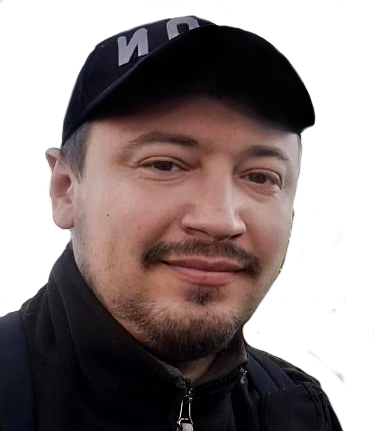
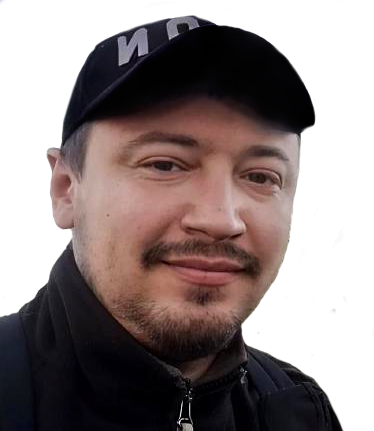
fix: remove overflow-hidden from map container so zoom controls work

diff --git a/src/components/Footer.tsx b/src/components/Footer.tsx
@@ -104,16 +104,14 @@ export function Footer() {
 
           {/* Map - right */}
           <div className="w-full md:w-64 md:shrink-0">
-            <div className="rounded-2xl overflow-hidden shadow-md border border-slate-200 dark:border-slate-700">
-              <div className="w-full h-64 mx-auto">
-                <iframe
-                  src="https://www.openstreetmap.org/export/embed.html?bbox=33.28,47.78,33.42,47.90&layer=mapnik&marker=47.83940783900248%2C33.35141898014392"
-                  className="w-full h-full border-0"
-                  allowFullScreen
-                  loading="lazy"
-                  title="Map - Krivoy Rog"
-                />
-              </div>
+            <div className="shadow-md border border-slate-200 dark:border-slate-700 rounded-2xl">
+              <iframe
+                src="https://www.openstreetmap.org/export/embed.html?bbox=33.28,47.78,33.42,47.90&layer=mapnik&marker=47.83940783900248%2C33.35141898014392"
+                className="w-full h-64 border-0 rounded-2xl"
+                allowFullScreen
+                loading="lazy"
+                title="Map - Krivoy Rog"
+              />
             </div>
             <p className="text-xs text-slate-500 dark:text-slate-400 mt-2">
               Krivoy Rog, Ukraine
